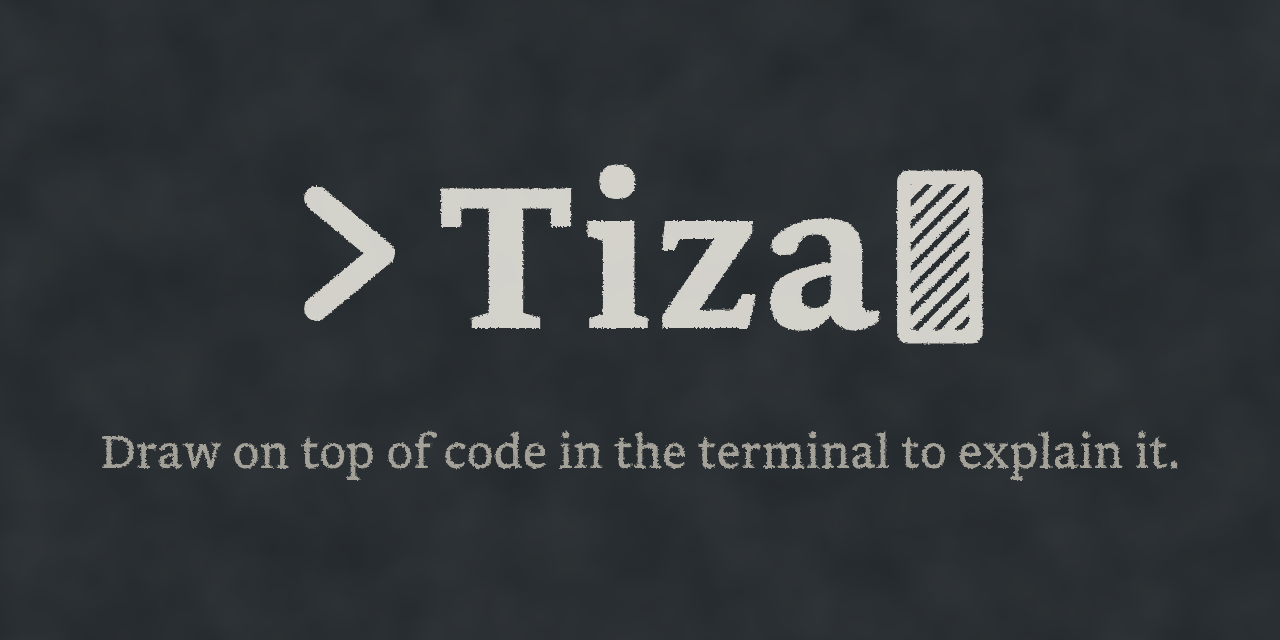
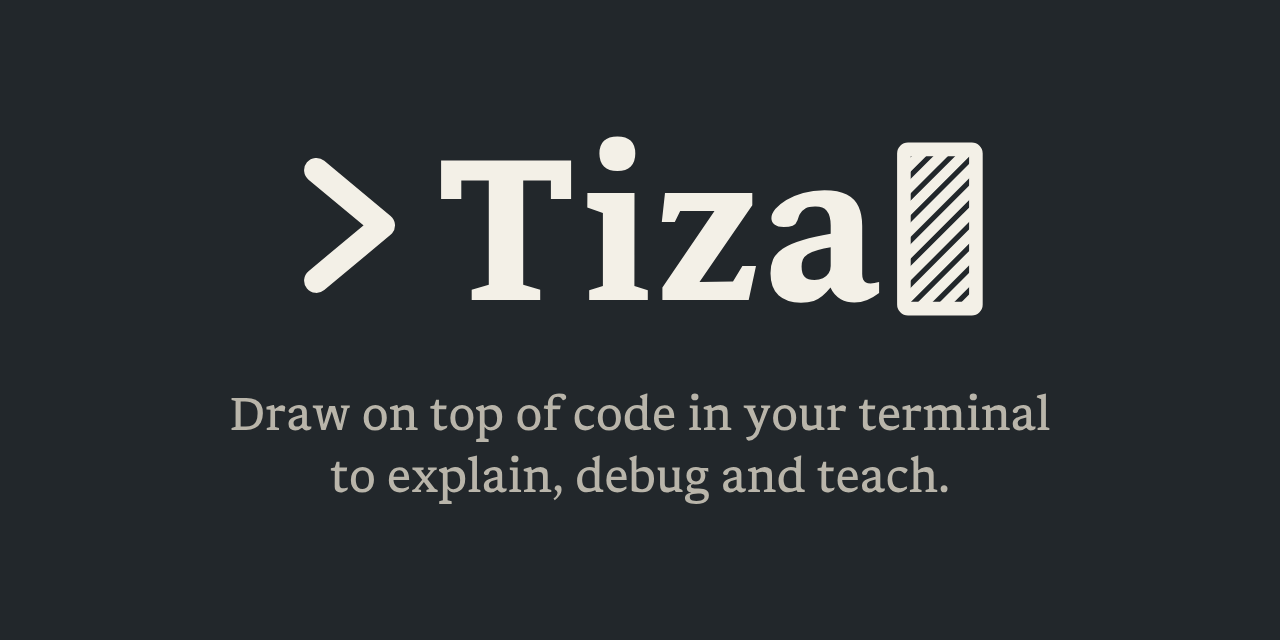
Cambia el posicionamiento a «Draw on top of code in your terminal to explain, debug and teach.» en el README, el README del crate, Cargo.toml, tiza --help, las instrucciones MCP y las notas de la release; el párrafo de entrada habla de explicar, presentar, grabar y depurar con un LLM, Rust y ratatui

Changed region(s): [[0.3438, 0.2188, 0.7812, 0.5625], [0.0625, 0.625, 0.9062, 0.7812], [0.2188, 0.25, 0.3125, 0.5]]

diff --git a/qa/tests/t-152.rs b/qa/tests/t-152.rs
@@ -1399,3 +1399,57 @@ fn render_help_names_every_format_that_out_writes() {
         );
     }
 }
+
+// --- Positioning (Luis, 2026-10-24) ------------------------------------
+
+/// The one sentence that says what Tiza is: not only tutorials and video,
+/// also learning with an LLM, reviewing and debugging.
+const POSITIONING: &str = "Draw on top of code in your terminal to explain, debug and teach";
+
+#[test]
+fn positioning_is_the_same_sentence_everywhere() {
+    let bold = format!("**{POSITIONING}.**");
+    for f in [
+        "README.md",
+        "crates/tiza-cli/README.md",
+        "docs/release-notes/v0.1.0.md",
+    ] {
+        assert!(read(f).lines().any(|l| l == bold), "{f} lacks {bold}");
+    }
+    let meta = metadata();
+    let description = package(&meta, "tiza")["description"].as_str().unwrap();
+    assert_eq!(
+        description,
+        format!("{POSITIONING}: a TUI, a CLI and an MCP server")
+    );
+    let help = Command::new(bin()).arg("--help").output().unwrap();
+    let help = String::from_utf8_lossy(&help.stdout);
+    assert_eq!(
+        help.lines().next(),
+        Some(format!("{POSITIONING}.").as_str())
+    );
+    let mcp = tiza_qa::McpClient::start(&scratch("t152-mcp").join("none.sock"));
+    let instructions = mcp.initialize_result()["instructions"]
+        .as_str()
+        .unwrap()
+        .to_string();
+    let lower = POSITIONING.replacen("Draw", "draw", 1);
+    assert!(
+        instructions.starts_with(&format!("Tiza: {lower}.")),
+        "{instructions}"
+    );
+    // The old positioning is gone from what people read.
+    for f in [
+        "README.md",
+        "crates/tiza-cli/README.md",
+        "crates/tiza-cli/Cargo.toml",
+        "crates/tiza-cli/src/main.rs",
+        "crates/tiza-mcp/src/lib.rs",
+        "docs/release-notes/v0.1.0.md",
+        "CHANGELOG.md",
+    ] {
+        let t = read(f);
+        assert!(!t.contains("built for tutorials"), "{f}");
+        assert!(!t.contains("explain it on video"), "{f}");
+    }
+}

diff --git a/crates/tiza-cli/src/main.rs b/crates/tiza-cli/src/main.rs
@@ -15,7 +15,7 @@ use tiza_core::socket;
 use tiza_core::{Theme, ThemeName};
 
 #[derive(Parser)]
-#[command(name = "tiza", version = tiza_core::VERSION_LONG, about = "Draw on top of code in the terminal to explain it on video.", long_about = None)]
+#[command(name = "tiza", version = tiza_core::VERSION_LONG, about = "Draw on top of code in your terminal to explain, debug and teach.", long_about = None)]
 #[command(
     after_help = "Examples:\n  tiza src/main.rs:12-48        open a range of lines\n  pbpaste | tiza --lang rs       code from the clipboard\n  tiza demo.tiza --present   open in presentation mode\n  tiza render demo.tiza --out - --step 2\n  tiza render demo.tiza --out demo.png --step 3   PNG (or .svg) of a step\n  tiza render --out shot.png   PNG of what the live instance shows\n  tiza check demo.tiza           preflight before a take (anchors, moves, clipped labels)\n  tiza render demo.tiza --all-steps --out steps/   one PNG per step\n  tiza mcp                       MCP server for agents\n  tiza next | tiza goto borrow   drive the live instance from a script or an editor task\n  tiza schema api                JSON Schema of the local API (schema document = the .tiza format)\n  cat demo.tiza | tiza render - --out -   `-` is stdin everywhere"
 )]

diff --git a/crates/tiza-mcp/src/lib.rs b/crates/tiza-mcp/src/lib.rs
@@ -1739,9 +1739,9 @@ impl ServerHandler for TizaServer {
         )
             .with_server_info(Implementation::new("tiza", tiza_core::VERSION))
             .with_instructions(
-                "Tiza: draw on top of code in the terminal to explain it on video. \
+                "Tiza: draw on top of code in your terminal to explain, debug and teach. \
                  Use it to explain code to a person or another agent, live or recorded, step by step: \
-                 a code walkthrough, tutorial, screencast or presentation, to teach or show on screen. \
+                 a code walkthrough, a lesson, a pull request review, a debugging session with a person or an agent, a tutorial or a presentation. \
                  It draws a box, arrow, highlight, note, callout or mark (move, read, write, drop…) on the live code, \
                  groups them in steps, can type code or change it at a step (a move, `add_move`), link another file, \
                  and export PNG, SVG, GIF or text.\n\

diff --git a/qa/tests/t-162.rs b/qa/tests/t-162.rs
@@ -42,8 +42,11 @@ use tiza_qa::{Live, McpClient, fixture, scratch};
 
 const CORE: [&str; 4] = ["add_box", "get_code", "render_text", "status"];
 
-/// The words a person says when they want what Tiza does (AC1).
-const KEYWORDS: [&str; 22] = [
+/// The words a person says when they want what Tiza does (AC1). Since
+/// the positioning of 2026-10-24 (Luis: explain, debug and teach, not only
+/// tutorials and video) a lesson, a pull request review and debugging
+/// replace «screencast» and «show on screen».
+const KEYWORDS: [&str; 23] = [
     "box",
     "arrow",
     "highlight",
@@ -54,10 +57,11 @@ const KEYWORDS: [&str; 22] = [
     "presentation",
     "explain code",
     "code walkthrough",
-    "screencast",
+    "lesson",
+    "pull request review",
+    "debug",
     "tutorial",
     "teach",
-    "show on screen",
     "type code",
     "move",
     "link another file",

diff --git a/README.md b/README.md
@@ -1,8 +1,12 @@
 ![Tiza: step-by-step code annotations for the terminal. Three real frames of the Rust ownership example, steps 1, 4 and 7](docs/img/hero.png)
 
-**Draw on top of code in the terminal to explain it on video.**
+**Draw on top of code in your terminal to explain, debug and teach.**
 
-Tiza is a Rust TUI (ratatui) built for tutorials: you share your screen with your editor, send the code to Tiza in a terminal and draw on top of it (boxes, arrows, highlights, notes and semantic marks such as *warn*, *read*, *write*, *move* or *drop*, plus any style you define, emoji included) to explain a concept step by step. Annotations are anchored to the code text, not to screen cells, so they survive scrolling, resizing and theme changes.
+Tiza is an interactive terminal tool for visual annotations on code. Use it to give a walkthrough, to present on screen, to record a video or to work through a bug with an LLM. AI agents can draw on the same code through MCP.
+
+Send code to Tiza from your editor. Then draw on it, highlight what is important and go through it step by step.
+
+The annotations are boxes, arrows, highlights, notes and semantic marks such as *warn*, *read*, *write*, *move* or *drop*, plus any style you define, emoji included. Annotations are anchored to the code text, not to screen cells, so they survive scrolling, resizing and theme changes.
 
 It is also **for agents**: it exposes a local socket API and an **MCP server**, so Claude Code (or any MCP client) can draw live on what you are showing.
 
@@ -36,6 +40,8 @@ It is also **for agents**: it exposes a local socket API and an **MCP server**, 
 <!-- /readme-images:ownership-txt -->
 
 ## Installation
+
+Tiza is written in Rust with [ratatui](https://ratatui.rs).
 
 Binaries for macOS (Apple Silicon and Intel) and Linux in [Releases](https://github.com/luiscarlosjayk/tiza/releases). Download size: about 6 MB (tar.gz: 6.3 MB for Linux x86_64, 5.7 MB for macOS arm64; the binary inside is 11-13 MB), kept under 8 MB — and the binary under 16 MB — by `scripts/size-check.sh`. Windows: not supported in v0.x. Each release's description is its notes (`docs/release-notes/vX.Y.Z.md`): what is new, which archive is for which platform (the Linux one needs glibc 2.35 or newer: Ubuntu 22.04, Debian 12, Fedora 36 or later).
 

diff --git a/crates/tiza-cli/README.md b/crates/tiza-cli/README.md
@@ -2,13 +2,19 @@
 
 ![Tiza: step-by-step code annotations for the terminal. Three real frames of the Rust ownership example, steps 1, 4 and 7](https://raw.githubusercontent.com/luiscarlosjayk/tiza/main/docs/img/hero.png)
 
-**Draw on top of code in the terminal to explain it on video.**
+**Draw on top of code in your terminal to explain, debug and teach.**
 
-Tiza is a Rust TUI (ratatui) built for tutorials: you send the code to Tiza in a terminal and draw on top of it (boxes, arrows, highlights, notes and semantic marks such as *warn*, *read*, *write*, *move* or *drop*) to explain a concept step by step. Annotations are anchored to the code text, not to screen cells, so they survive scrolling, resizing and theme changes. Every step exports to text, Markdown, ANSI, SVG, PNG, GIF, MP4 (with your `ffmpeg`), asciicast or VHS.
+Tiza is an interactive terminal tool for visual annotations on code. Use it to give a walkthrough, to present on screen, to record a video or to work through a bug with an LLM. AI agents can draw on the same code through MCP.
+
+Send code to Tiza from your editor. Then draw on it, highlight what is important and go through it step by step.
+
+The annotations are boxes, arrows, highlights, notes and semantic marks such as *warn*, *read*, *write*, *move* or *drop*. Annotations are anchored to the code text, not to screen cells, so they survive scrolling, resizing and theme changes. Every step exports to text, Markdown, ANSI, SVG, PNG, GIF, MP4 (with your `ffmpeg`), asciicast or VHS.
 
 It is also **for agents**: a local socket API and an MCP server (`tiza mcp`) let Claude Code, or any MCP client, draw live on what you are showing.
 
 ## Installation
+
+Tiza is written in Rust with [ratatui](https://ratatui.rs).
 
 ```sh
 cargo install tiza

diff --git a/docs/brand/README.md b/docs/brand/README.md
@@ -6,7 +6,7 @@ These files are brand material for the repository page, an avatar and a social p
 |---|---|---|
 | `logo.svg` | 1200×400 | The logo: `> Tiza` and a striped cursor on a slate background. The hero image of the README (`docs/img/hero.png`) shows it, made from the paths of this file. |
 | `logo.png` | 1200×400 | The same logo as a PNG, for places that do not show SVG. |
-| `og-card.png` | 1280×640 | The social preview: the logo and the tagline on a chalk texture. Upload it in **Settings → Social preview** on GitHub. |
+| `og-card.png` | 1280×640 | The social preview: the logo and the tagline on a slate background. Upload it in **Settings → Social preview** on GitHub. |
 | `mark.svg` | 512×512 | The symbol `>` and the striped cursor, for an avatar. |
 | `mark-small.svg` | 512×512 | The same symbol with a solid cursor, for a favicon of 16 to 32 pixels. |
 

diff --git a/docs/release-notes/v0.1.0.md b/docs/release-notes/v0.1.0.md
@@ -1,6 +1,6 @@
 # Tiza v0.1.0
 
-**Tiza lets you draw on code in the terminal. Use it to explain code step by step.**
+**Draw on top of code in your terminal to explain, debug and teach.**
 
 Open a source file in Tiza. Draw boxes, arrows, highlights, notes and marks on the code. Put the annotations into steps. Then show the steps live, or export them as images or video. AI agents can also draw, through a local API and an MCP server.
 
